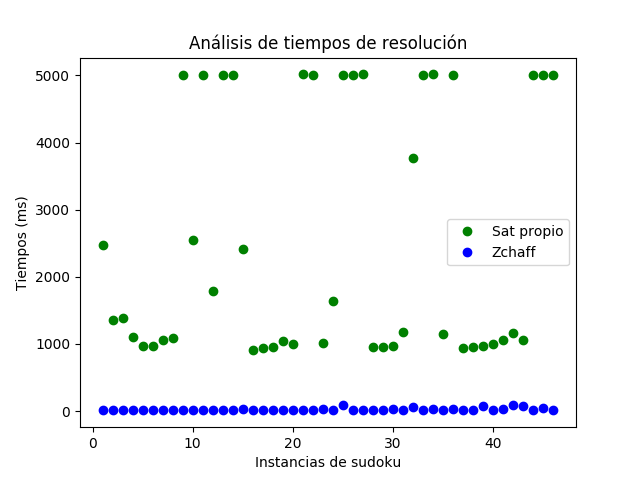
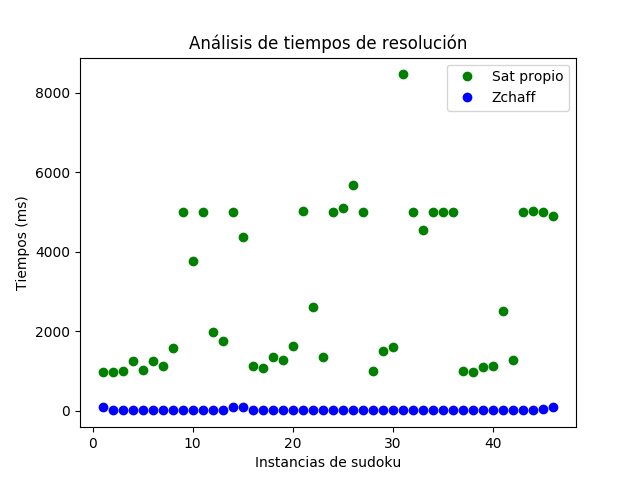
Checkear si la solucion de un sudoku es valida (just in case)
Actualizada solucion de instancias sudoku

diff --git a/helpers/sudoku.py b/helpers/sudoku.py
@@ -71,10 +71,14 @@ def get_sudoku_from_sat(sol_filename, translator, is_zchaff=False):
 
 
 # Método que escribe el fichero que contiene la solución del sudoku.
+# checkeando si la solución es válida.
 def write_sudoku_sol(sudoku, solution, filename, counter, is_zchaff=False):
 
     fd = open('../scripts/SatSols/' + filename, 'a')
     fd_times = open('../scripts/SatOutputTimes/' + filename, 'a')
+    sudoku_solution = []
+    is_sudoku_valid = False
+
     if is_zchaff:
         fd_report = open('../scripts/Reports/' + filename, 'a')
         if counter == 0:
@@ -83,7 +87,15 @@ def write_sudoku_sol(sudoku, solution, filename, counter, is_zchaff=False):
         fd_report = open('../scripts/Reports/' + filename, 'a')
         if counter == 0:
             fd_report.write("Reporte de ejecución de implementación SAT propia \n")
-    fd.write(solution[0] + '\n')
+    
+    if solution[2] == 1:
+        sudoku_solution = create_sudoku_instance(solution[0])
+        is_sudoku_valid = sudoku_solution.check_solution()
+        if is_sudoku_valid:
+            fd.write(solution[0] + '\n')
+        else:
+            fd.write("Solución inválida \n")
+
     fd_times.write(str(solution[1]) + '\n')
 
     # Generamos el informe
@@ -96,7 +108,11 @@ def write_sudoku_sol(sudoku, solution, filename, counter, is_zchaff=False):
     elif solution[2] == 0:
         fd_report.write("No tiene solución \n")
     else:
-        create_sudoku_instance(solution[0]).print(fd_report)
+        if is_sudoku_valid:
+            sudoku_solution.print(fd_report)
+        else:
+            fd_report.write("Solución inválida \n")
+
     fd_report.write("Tiempo de ejecución: " + str(solution[1]) + 'ms \n')
 
     fd.close()

diff --git a/classes/sudoku.py b/classes/sudoku.py
@@ -1,13 +1,12 @@
 # Archivo para la clase sudoku
 import numpy as np
 
-
 class sudoku:
     def __init__(self, sudoku_board, size):
         self.size = int(size)
         self.size_pow = pow(self.size, 2)
         self.board = sudoku_board
-        self.solution_board = sudoku_board.copy()
+        self.solution_board = np.array(sudoku_board)
         self.solved = False
 
     # Checkear si es posible colocar un numero
@@ -26,6 +25,20 @@ class sudoku:
                 if self.solution_board[y0+i][x0+j] == n:
                     return False
         return True
+    
+
+    # Metodo para checkear si una solucion es
+    # valida
+    def check_solution(self):
+        for i in range(self.size_pow):
+            is_row_not_valid = (len(set(self.solution_board[i,:])) != self.size_pow)
+            is_column_not_valid = (len(set(self.solution_board[:,i])) != self.size_pow)
+            y, x = (i // self.size) * self.size, (i % self.size) * self.size
+            is_section_not_valid = (len(set(self.solution_board[y:y+self.size, x:x+self.size].ravel())) != self.size_pow)
+            if (is_row_not_valid or is_column_not_valid or is_section_not_valid):
+                return False
+        return True
+
 
     # Resolver sudoku de manera recursiva
     # Retorno al encontrar una solucion
@@ -47,8 +60,3 @@ class sudoku:
     # Print sudoku de manera legible
     def print(self, filename=None):
         print(np.matrix(self.board), file=filename)
-
-    # Print solucion del sudoku de manera legible
-    def print_solution(self):
-        self.solve()
-        print(np.matrix(self.solution_board))
